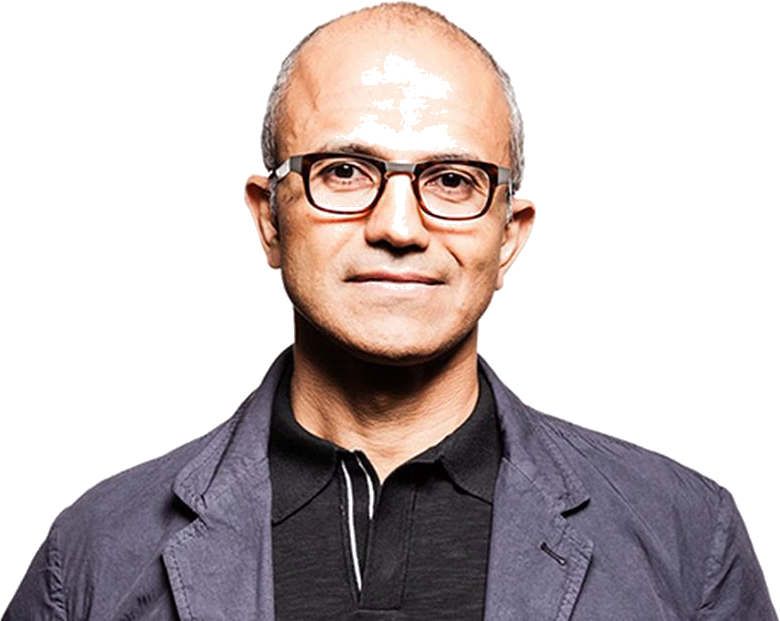
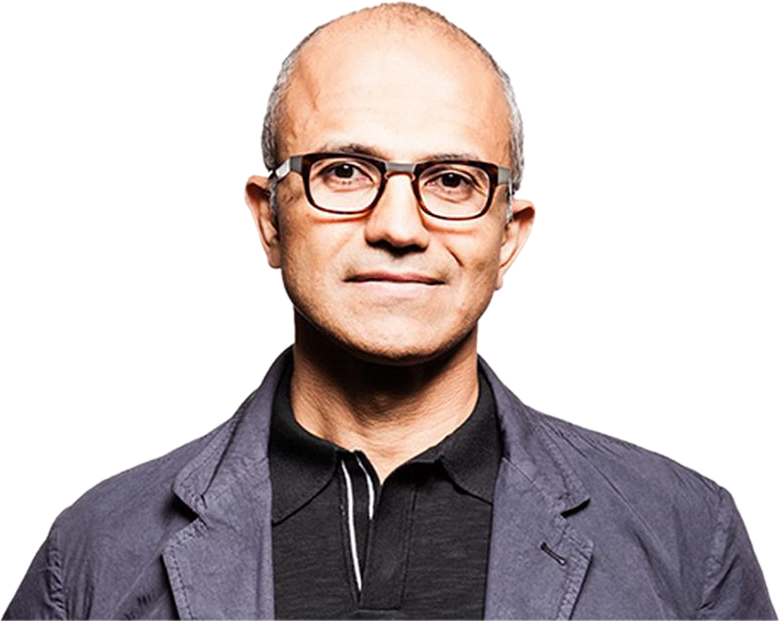
52번 하단 한 줄 정리, 57번 인물사진 깨짐 수정, 65/66번 순서 교체·확대
- 52번: 하단 문구 줄바꿈 없이 한 줄로 표시
- 57번: 사티아 나델라 인물사진 1비트 알파(계단현상) → 8비트 알파로 재처리해 깨짐 현상 수정
- 쉬는시간 슬라이드를 점심시간 앞으로 이동
- 점심/쉬는시간 두 슬라이드 전체적으로 비율 확대(이모지·타이틀·시간뱃지·강조바)

Changed region(s): [[0.4308, 0.0918, 0.5846, 0.2448], [0.4923, 0.306, 0.5231, 0.3671], [0.0, 0.9791, 0.0308, 1.0]]

diff --git a/platform/public/host/index.html b/platform/public/host/index.html
@@ -749,7 +749,7 @@ a:hover{color:var(--red-300)}
 <span class="apex-eyebrow" style="font-size:46px;color:var(--text-primary);background:var(--surface-inset);padding:14px 22px;align-self:flex-start;line-height:1.2">유능함: 일의 방향을 잡다</span><p style="margin:0;font-size:42px;line-height:1.75;color:var(--text-primary)">• 오늘의 목표와 주요 업무 공유<br>• 업무의 우선순위 확인 및 배분<br>• 진행 상황 및 지연 요소 확인<br>• 지원 및 협력이 필요한 부분 확인</p>
 </div>
 </div>
-<div data-build="1" data-build-fx="fade" style="display:flex;justify-content:center;padding-top:4px"><div style="border:3px solid var(--accent);border-radius:8px;background:var(--surface-card);padding:22px 44px"><p style="margin:0;font-family:var(--font-display);font-weight:700;font-size:38px;line-height:1.5;color:var(--text-primary);text-align:center">아침 인사는 따뜻한 관계를 여는 시간,<br>아침 조회는 일의 방향을 맞추는 유능함의 시간</p></div></div>
+<div data-build="1" data-build-fx="fade" style="display:flex;justify-content:center;padding-top:4px"><div style="border:3px solid var(--accent);border-radius:8px;background:var(--surface-card);padding:22px 44px;white-space:nowrap"><p style="margin:0;font-family:var(--font-display);font-weight:700;font-size:30px;line-height:1.5;color:var(--text-primary);text-align:center;white-space:nowrap">아침 인사는 따뜻한 관계를 여는 시간, 아침 조회는 일의 방향을 맞추는 유능함의 시간</p></div></div>
 </section>
 
 <section data-label="따뜻함·유능함 우선" data-speaker-notes="피스크 교수의 핵심 메시지: 따뜻함이 유능함보다 항상 먼저다." style="background:var(--bg-page);color:var(--text-primary);font-family:var(--font-core);padding:52px 72px;display:flex;flex-direction:column;justify-content:center;gap:28px" data-om-slide-id="rk-mem-08">
@@ -874,24 +874,24 @@ a:hover{color:var(--red-300)}
 </div>
 </section>
 
-<section data-label="점심 시간" data-speaker-notes="점심 시간 안내. 다음으로 넘기면 음악이 켜지고, 한 번 더 넘기면 꺼진 뒤 다음 슬라이드로 넘어간다." style="background:linear-gradient(140deg,#AEB5BF 0%,#868E9B 100%);color:#12151A;font-family:var(--font-core);display:flex;flex-direction:column;align-items:center;justify-content:center;gap:26px;padding:64px 72px" data-om-slide-id="d2w-lunch">
-<button type="button" data-build-start="1" onClick="{{ bgmLunchPlay }}" class="export-hidden" style="display:none">play</button>
-<button type="button" data-build-start="2" onClick="{{ bgmLunchStop }}" class="export-hidden" style="display:none">stop</button>
-<div style="font-family:var(--font-display);font-weight:700;font-size:15px;letter-spacing:.24em;color:rgba(18,21,26,.62)">LUNCH BREAK</div>
-<div style="font-size:76px;line-height:1;letter-spacing:.04em">🍚 🍽 ☕</div>
-<h2 style="margin:0;font-family:var(--font-display);font-weight:900;font-size:92px;line-height:1;letter-spacing:.04em;color:#FFFFFF;text-shadow:rgba(6,7,10,.22) 0 6px 18px">LUNCH TIME</h2>
-<div style="width:180px;height:5px;background:var(--red-500);transform:skewX(-9deg)"></div>
-<input aria-label="시간" value="12:00 ~ 13:10" style="width:560px;text-align:center;background:rgba(255,255,255,.78);border-width:medium medium 4px;border-style:none none solid;border-color:currentcolor currentcolor rgba(18,21,26,.35);color:#12151A;font-family:var(--font-numeric);font-weight:900;font-size:58px;letter-spacing:.06em;padding:14px 10px;outline:none">
-</section>
-
-<section data-label="쉬는 시간" data-speaker-notes="쉬는 시간 안내. 다음으로 넘기면 음악이 켜지고, 한 번 더 넘기면 꺼진 뒤 다음 슬라이드로 넘어간다." style="background:linear-gradient(140deg,#AEB5BF 0%,#868E9B 100%);color:#12151A;font-family:var(--font-core);display:flex;flex-direction:column;align-items:center;justify-content:center;gap:26px;padding:64px 72px" data-om-slide-id="d2w-break">
+<section data-label="쉬는 시간" data-speaker-notes="쉬는 시간 안내. 다음으로 넘기면 음악이 켜지고, 한 번 더 넘기면 꺼진 뒤 다음 슬라이드로 넘어간다." style="background:linear-gradient(140deg,#AEB5BF 0%,#868E9B 100%);color:#12151A;font-family:var(--font-core);display:flex;flex-direction:column;align-items:center;justify-content:center;gap:40px;padding:72px" data-om-slide-id="d2w-break">
 <button type="button" data-build-start="1" onClick="{{ bgmBreakPlay }}" class="export-hidden" style="display:none">play</button>
 <button type="button" data-build-start="2" onClick="{{ bgmBreakStop }}" class="export-hidden" style="display:none">stop</button>
-<div style="font-family:var(--font-display);font-weight:700;font-size:15px;letter-spacing:.24em;color:rgba(18,21,26,.62)">COFFEE BREAK</div>
-<div style="font-size:76px;line-height:1;letter-spacing:.04em">☕ 🍪</div>
-<h2 style="margin:0;font-family:var(--font-display);font-weight:900;font-size:92px;line-height:1;letter-spacing:.04em;color:#FFFFFF;text-shadow:rgba(6,7,10,.22) 0 6px 18px">BREAK TIME</h2>
-<div style="width:180px;height:5px;background:var(--red-500);transform:skewX(-9deg)"></div>
-<input aria-label="시간" value="15:00 ~ 15:15" style="width:560px;text-align:center;background:rgba(255,255,255,.78);border-width:medium medium 4px;border-style:none none solid;border-color:currentcolor currentcolor rgba(18,21,26,.35);color:#12151A;font-family:var(--font-numeric);font-weight:900;font-size:58px;letter-spacing:.06em;padding:14px 10px;outline:none">
+<div style="font-family:var(--font-display);font-weight:700;font-size:22px;letter-spacing:.24em;color:rgba(18,21,26,.62)">COFFEE BREAK</div>
+<div style="font-size:112px;line-height:1;letter-spacing:.04em">☕ 🍪</div>
+<h2 style="margin:0;font-family:var(--font-display);font-weight:900;font-size:138px;line-height:1;letter-spacing:.04em;color:#FFFFFF;text-shadow:rgba(6,7,10,.22) 0 6px 18px">BREAK TIME</h2>
+<div style="width:260px;height:7px;background:var(--red-500);transform:skewX(-9deg)"></div>
+<input aria-label="시간" value="15:00 ~ 15:15" style="width:780px;text-align:center;background:rgba(255,255,255,.78);border-width:medium medium 5px;border-style:none none solid;border-color:currentcolor currentcolor rgba(18,21,26,.35);color:#12151A;font-family:var(--font-numeric);font-weight:900;font-size:84px;letter-spacing:.06em;padding:18px 10px;outline:none">
+</section>
+
+<section data-label="점심 시간" data-speaker-notes="점심 시간 안내. 다음으로 넘기면 음악이 켜지고, 한 번 더 넘기면 꺼진 뒤 다음 슬라이드로 넘어간다." style="background:linear-gradient(140deg,#AEB5BF 0%,#868E9B 100%);color:#12151A;font-family:var(--font-core);display:flex;flex-direction:column;align-items:center;justify-content:center;gap:40px;padding:72px" data-om-slide-id="d2w-lunch">
+<button type="button" data-build-start="1" onClick="{{ bgmLunchPlay }}" class="export-hidden" style="display:none">play</button>
+<button type="button" data-build-start="2" onClick="{{ bgmLunchStop }}" class="export-hidden" style="display:none">stop</button>
+<div style="font-family:var(--font-display);font-weight:700;font-size:22px;letter-spacing:.24em;color:rgba(18,21,26,.62)">LUNCH BREAK</div>
+<div style="font-size:112px;line-height:1;letter-spacing:.04em">🍚 🍽 ☕</div>
+<h2 style="margin:0;font-family:var(--font-display);font-weight:900;font-size:138px;line-height:1;letter-spacing:.04em;color:#FFFFFF;text-shadow:rgba(6,7,10,.22) 0 6px 18px">LUNCH TIME</h2>
+<div style="width:260px;height:7px;background:var(--red-500);transform:skewX(-9deg)"></div>
+<input aria-label="시간" value="12:00 ~ 13:10" style="width:780px;text-align:center;background:rgba(255,255,255,.78);border-width:medium medium 5px;border-style:none none solid;border-color:currentcolor currentcolor rgba(18,21,26,.35);color:#12151A;font-family:var(--font-numeric);font-weight:900;font-size:84px;letter-spacing:.06em;padding:18px 10px;outline:none">
 </section>
 
 <section data-label="아침 노하우" data-speaker-notes="조별 공유. 긍정적 하루를 여는 나만의 노하우." style="background-color:var(--bg-page);background-image:var(--texture-grid);color:var(--text-primary);font-family:var(--font-core);padding:52px 72px;display:flex;flex-direction:column;justify-content:center;gap:40px" data-om-slide-id="884db4d5">
@@ -1980,7 +1980,7 @@ a:hover{color:var(--red-300)}
 <script type="text/x-dc" data-dc-script data-props="{&quot;centerName&quot;:{&quot;editor&quot;:&quot;text&quot;,&quot;default&quot;:&quot;LG전자 서비스센터&quot;,&quot;tsType&quot;:&quot;string&quot;,&quot;section&quot;:&quot;과정 정보&quot;},&quot;courseDate&quot;:{&quot;editor&quot;:&quot;text&quot;,&quot;default&quot;:&quot;2026. 10.&quot;,&quot;tsType&quot;:&quot;string&quot;,&quot;section&quot;:&quot;과정 정보&quot;},&quot;showAnswers&quot;:{&quot;editor&quot;:&quot;boolean&quot;,&quot;default&quot;:true,&quot;tsType&quot;:&quot;boolean&quot;,&quot;section&quot;:&quot;진행 옵션&quot;}}">
 /* 기본(원본) 슬라이드 순서 — data-om-slide-id 기준, 135개. 강사가 순서를 바꾸거나
    추가/삭제한 뒤 "화면 순서 기본 버전으로 되돌리기"를 누르면 이 배열로 복원된다. */
-const DEFAULT_SLIDE_ORDER = ["9bc6600a", "ecb6294b", "58f8fcb9", "a0a81a88", "135a3e47", "24cd9bc9", "fb0098e6", "7d5f5596", "03432091", "c051e4a5", "86779f60", "6b87e2c1", "41762336", "f1089a93", "45149e9d", "8f57dd2e", "66e2d046", "718666b2", "ba492d81", "5b62ec01", "b8c3b018", "c3e58b1b", "b04860ae", "7f4f97e6", "16dfb8dd", "16dfb8de", "d19684b9", "46385c9f", "d2q-00", "d2q-01", "d2q-02", "d2q-03", "d2q-04", "d2q-05", "d2q-06", "d2q-07", "d2q-08", "d2q-09", "d2q-10", "d2q-11", "d2q-12", "7dbb704c", "d2w-01", "6b87e2c1-copy1", "c3e58b1b-copy1", "b04860ae-copy1", "46385c9f-copy1", "63b5361a", "22e549ac", "rk-mem-07", "2cce7414", "aed335d0", "rk-mem-08", "d2c-07", "d2c-08", "d2c-09", "d2c-10", "d2c-11", "d2c-12", "d2c-13", "1b51048f", "4e9bd8a1", "9204f0ee", "rk-mem-13", "d2w-lunch", "d2w-break", "884db4d5", "b06313b0", "e4ba0605", "b05cf305", "26fb6ee8", "aabb1fc9", "22647148", "3c611565", "rk-mem-01", "rk-mem-02", "rk-mem-03", "rk-mem-04", "rk-mem-05", "rk-mem-06", "0754cc32", "4e459c8e", "bbf0ca49", "a67ec9c7", "491aaa0a", "00698745", "7870749e", "5571ca5c", "8ff18cc0", "33dc5761", "c0ada2c0", "rk-prep-09", "rk-prep-10", "rk-prep-11", "5d679f49", "rk-prep-12", "6937850d", "14697dfa", "2df8e9ed", "8c411fc9", "ee5f9019", "910e7d53", "92f018b1", "375c084d", "a9f9fcd4", "d1a75637", "8c099017", "3e3fd5a2", "c539e0b0", "9e7946c9", "415bdebe", "c86b914f", "607d99ea", "c62f50b0", "f8bdbf28", "4d9db68f", "46898c0e", "ff317d30", "73be0dbf", "b4e43fba", "d2c-01", "d2c-02", "d2c-03", "d2c-topic1", "d2c-topic2", "d2c-topic3", "d2c-topic4", "d2c-topic5", "d2c-topic6", "d2c-05", "d2c-06", "c98c0e86", "ef2f5aeb", "e464fda6", "37b2e5ac", "ea3e7123", "853a90b6", "300dc922", "b67c0a01", "b3eed1e2", "a1b2c3d4", "18c29f1a", "833f525d", "d2f-01", "d2f-02"];
+const DEFAULT_SLIDE_ORDER = ["9bc6600a", "ecb6294b", "58f8fcb9", "a0a81a88", "135a3e47", "24cd9bc9", "fb0098e6", "7d5f5596", "03432091", "c051e4a5", "86779f60", "6b87e2c1", "41762336", "f1089a93", "45149e9d", "8f57dd2e", "66e2d046", "718666b2", "ba492d81", "5b62ec01", "b8c3b018", "c3e58b1b", "b04860ae", "7f4f97e6", "16dfb8dd", "16dfb8de", "d19684b9", "46385c9f", "d2q-00", "d2q-01", "d2q-02", "d2q-03", "d2q-04", "d2q-05", "d2q-06", "d2q-07", "d2q-08", "d2q-09", "d2q-10", "d2q-11", "d2q-12", "7dbb704c", "d2w-01", "6b87e2c1-copy1", "c3e58b1b-copy1", "b04860ae-copy1", "46385c9f-copy1", "63b5361a", "22e549ac", "rk-mem-07", "2cce7414", "aed335d0", "rk-mem-08", "d2c-07", "d2c-08", "d2c-09", "d2c-10", "d2c-11", "d2c-12", "d2c-13", "1b51048f", "4e9bd8a1", "9204f0ee", "rk-mem-13", "d2w-break", "d2w-lunch", "884db4d5", "b06313b0", "e4ba0605", "b05cf305", "26fb6ee8", "aabb1fc9", "22647148", "3c611565", "rk-mem-01", "rk-mem-02", "rk-mem-03", "rk-mem-04", "rk-mem-05", "rk-mem-06", "0754cc32", "4e459c8e", "bbf0ca49", "a67ec9c7", "491aaa0a", "00698745", "7870749e", "5571ca5c", "8ff18cc0", "33dc5761", "c0ada2c0", "rk-prep-09", "rk-prep-10", "rk-prep-11", "5d679f49", "rk-prep-12", "6937850d", "14697dfa", "2df8e9ed", "8c411fc9", "ee5f9019", "910e7d53", "92f018b1", "375c084d", "a9f9fcd4", "d1a75637", "8c099017", "3e3fd5a2", "c539e0b0", "9e7946c9", "415bdebe", "c86b914f", "607d99ea", "c62f50b0", "f8bdbf28", "4d9db68f", "46898c0e", "ff317d30", "73be0dbf", "b4e43fba", "d2c-01", "d2c-02", "d2c-03", "d2c-topic1", "d2c-topic2", "d2c-topic3", "d2c-topic4", "d2c-topic5", "d2c-topic6", "d2c-05", "d2c-06", "c98c0e86", "ef2f5aeb", "e464fda6", "37b2e5ac", "ea3e7123", "853a90b6", "300dc922", "b67c0a01", "b3eed1e2", "a1b2c3d4", "18c29f1a", "833f525d", "d2f-01", "d2f-02"];
 
 class Component extends DCLogic {
   state = {
